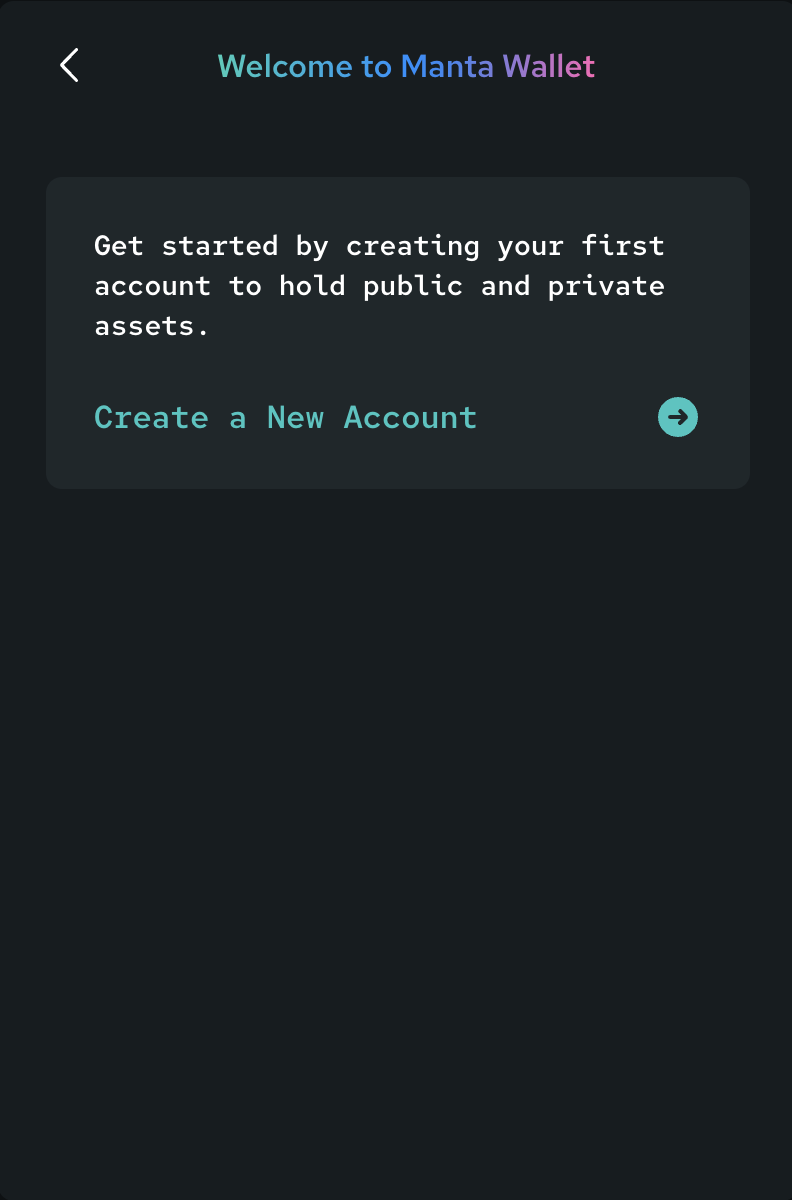
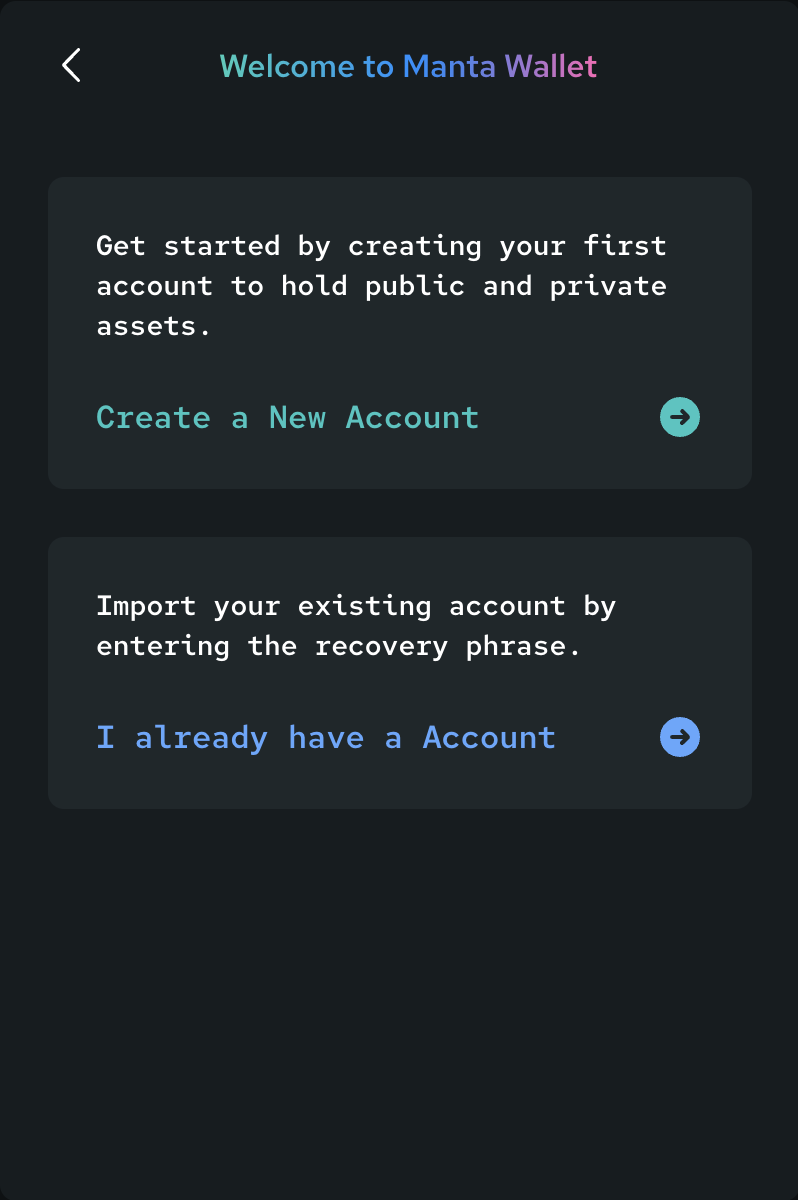
feat: add manta wallet migration (#150)
* Revert "chore: hidden manta wallet docs"

This reverts commit 56f96e2cf2d4832ddb432086c6ad73d604aec45d.

* update: switch to private assets

* update: manta wallet migration

* chore: migration url

* fix: import account

* update: wallet notice

* chore: dot en

* chore: update setup.png

* chore: move wallet to top

* fix: private assets

* update: migration zkAssets sync

diff --git a/sidebars.js b/sidebars.js
@@ -77,6 +77,22 @@ module.exports = {
       collapsible: false,
       items: [
         {
+          type: 'category',
+          label: 'Manta Wallet',
+          items:[
+            {
+              type: 'doc',
+              label: 'Get Started',
+              id: 'guides/MantaWallet',
+            },
+            {
+              type: 'doc',
+              label: 'Migration',
+              id: 'guides/MantaWalletMigration',
+            },
+          ]
+        },
+        {
           type: 'doc',
           label: 'MantaPay',
           id:  'guides/MantaPay',
@@ -118,7 +134,6 @@ module.exports = {
             // }
           ]
         },
-        // 'guides/MantaWallet',
         'guides/MantaSigner',
       ],
     },

diff --git a/docs/guides/MantaWallet.md b/docs/guides/MantaWallet.md
@@ -1,10 +1,16 @@
 # Manta Wallet
 
-Manta Wallet is a browser extension that protects your spending secrets and builds zero-knowledge proofs. It allows you to send and receive private (or "zk") assets.
+Manta Wallet is a browser extension that protects your spending secrets and builds zero-knowledge proofs. It allows you to send and receive zkAssets.
+:::tip notice
+Currently Manta Wallet can be use only in [NPO](https://npo.manta.network/), in the future it will support the other Dapps like Manta Pay,Bridge and Staking.
+:::
 
 ## Installation
 
 The latest version of Manta Wallet extension for chromium can be installed from [here](https://chrome.google.com/webstore/detail/manta-walletstaging/ojfnheclkhcophocgofibdgofgijnfck).
+:::tip
+Manta Signer will be deprecated in the future. Users can migrate their account to Manta Wallet by following [migration instruction](/docs/guides/MantaWalletMigration).
+:::
 
 ## Creating a New Account
 
@@ -17,7 +23,7 @@ To create a new account, install the Wallet Extension and select the first optio
    </div>
 <br/>
 
-Next you will have to pick a password that you will use to unlock the Signer. Please pick a strong password which is at least 8 characters long.
+Next you will have to pick a password that you will use to unlock the Manta Wallet. Please pick a strong password which is at least 8 characters long.
 
 <br/>
 
@@ -46,5 +52,14 @@ After you have created your account, you will be brought to the home page. And f
 
    <div style={{textAlign: 'center'}}>
     <img alt="sync-data" src="/img/guides/manta-wallet/sync-data.png" width="50%"/>
+   </div>
+<br/>
+
+And after the sync is finished. You can switch to zkAssets and starting to use it.
+
+<br/>
+
+   <div style={{textAlign: 'center'}}>
+    <img alt="sync-data" src="/img/guides/manta-wallet/switch-zk.png" width="50%"/>
    </div>
 <br/>

diff --git a/docs/guides/MantaWalletMigration.md b/docs/guides/MantaWalletMigration.md
@@ -1,0 +1,58 @@
+# Migration Instruction
+
+If you were signer user, you can migrate your account to wallet. The migration process is very simple. You just need to install the wallet extension and follow the instruction.
+
+## View Phrase
+
+You can view Manta Signer Account's Phrase by click the app icon on right corner.
+<br/>
+
+   <div style={{textAlign: 'center'}}>
+    <img alt="view-phrase" src="/img/guides/manta-wallet/migration/view-phrase.png" width="50%"/>
+   </div>
+<br/>
+
+Next you will need to copy the Secret Recovery Phrase.
+
+<br/>
+
+   <div style={{textAlign: 'center'}}>
+    <img alt="copy-phrase" src="/img/guides/manta-wallet/migration/copy-phrase.png" width="50%"/>
+   </div>
+<br/>
+
+After that you can import account to Manta Wallet from the browser extension.
+
+<br/>
+
+   <div style={{textAlign: 'center'}}>
+    <img alt="create-account" src="/img/guides/manta-wallet/migration/create-account.png" width="50%"/>
+   </div>
+<br/>
+
+Paste the phrase from Manta Signer and waiting for your account's import to be finished.
+
+<br/>
+
+   <div style={{textAlign: 'center'}}>
+    <img alt="import-phrase" src="/img/guides/manta-wallet/migration/import-phrase.png" width="50%"/>
+   </div>
+<br/>
+
+For the first time you need to sync zkAssets manually.
+
+<br/>
+
+   <div style={{textAlign: 'center'}}>
+    <img alt="sync-data" src="/img/guides/manta-wallet/sync-data.png" width="50%"/>
+   </div>
+<br/>
+
+And after the sync is finished. You can switch to see zkAsset's balance and starting to use it.
+
+<br/>
+
+   <div style={{textAlign: 'center'}}>
+    <img alt="sync-data" src="/img/guides/manta-wallet/switch-zk.png" width="50%"/>
+   </div>
+<br/>
